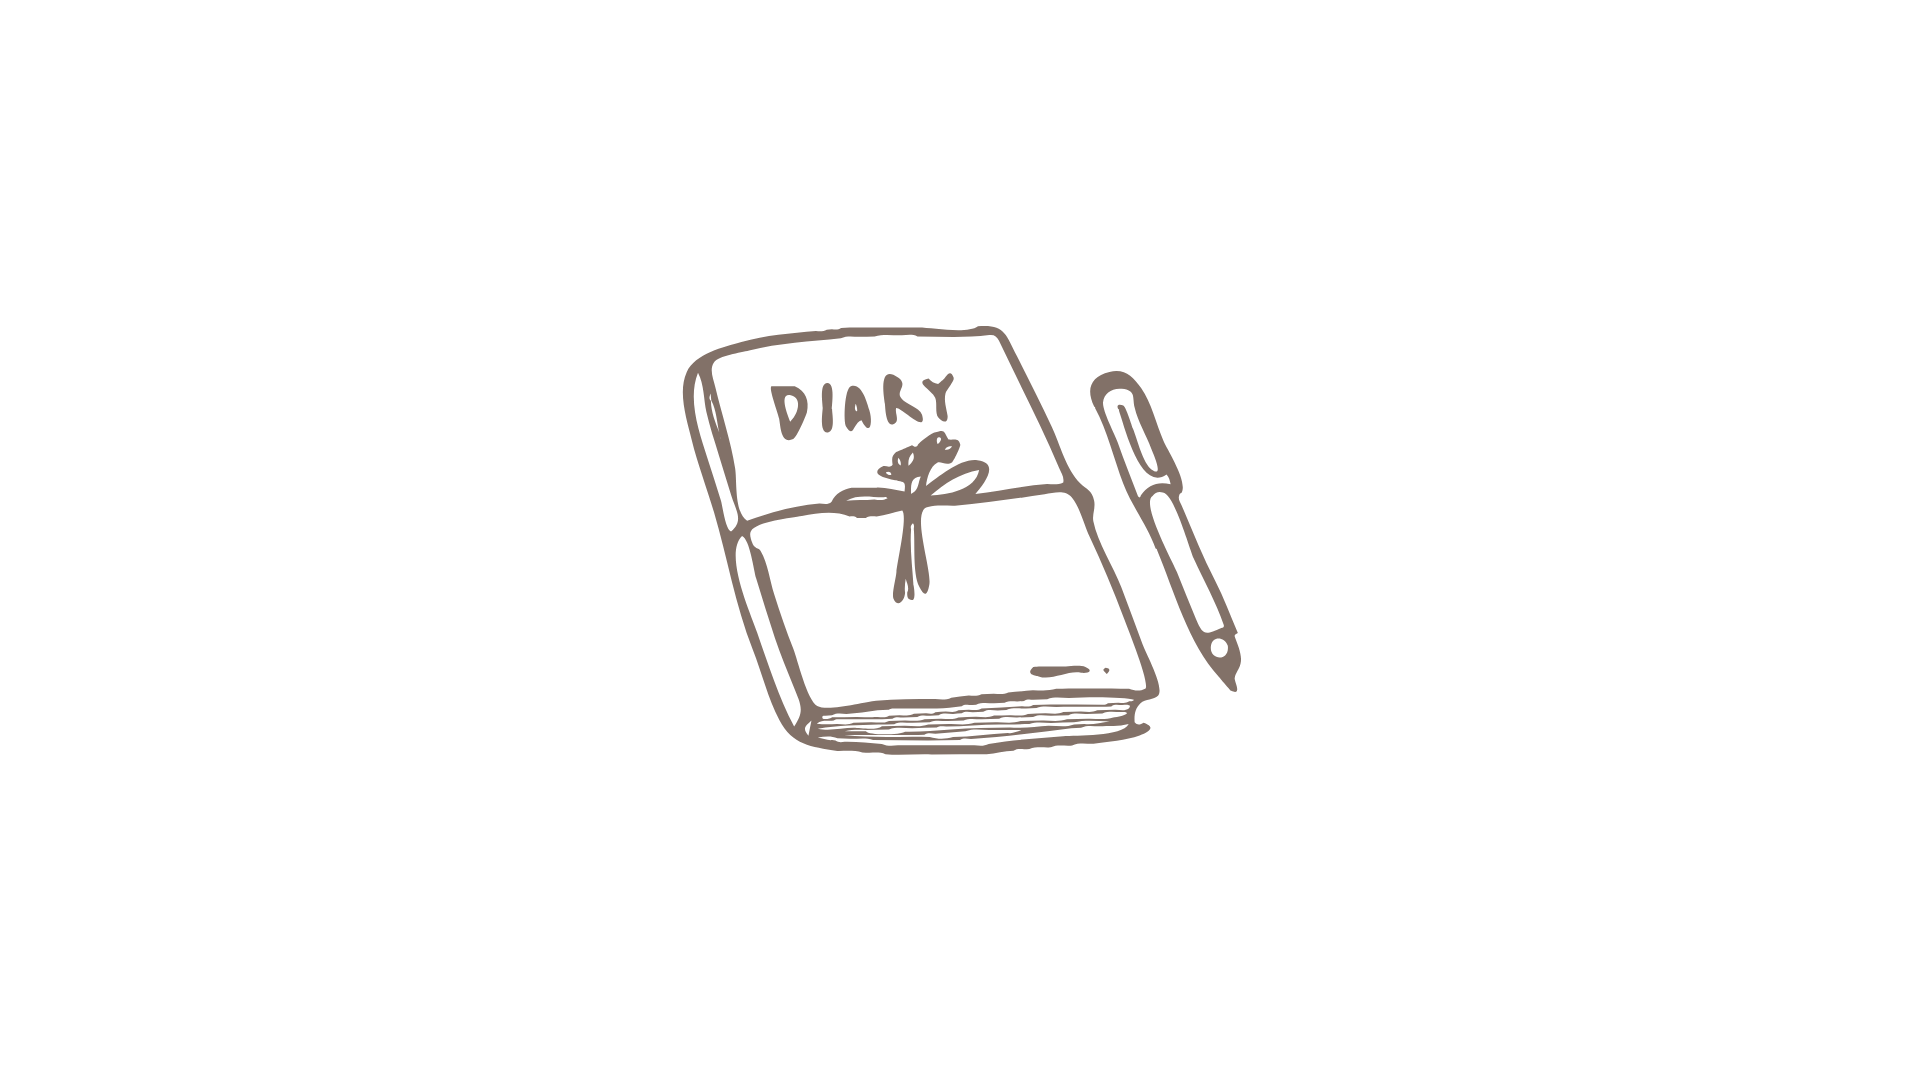
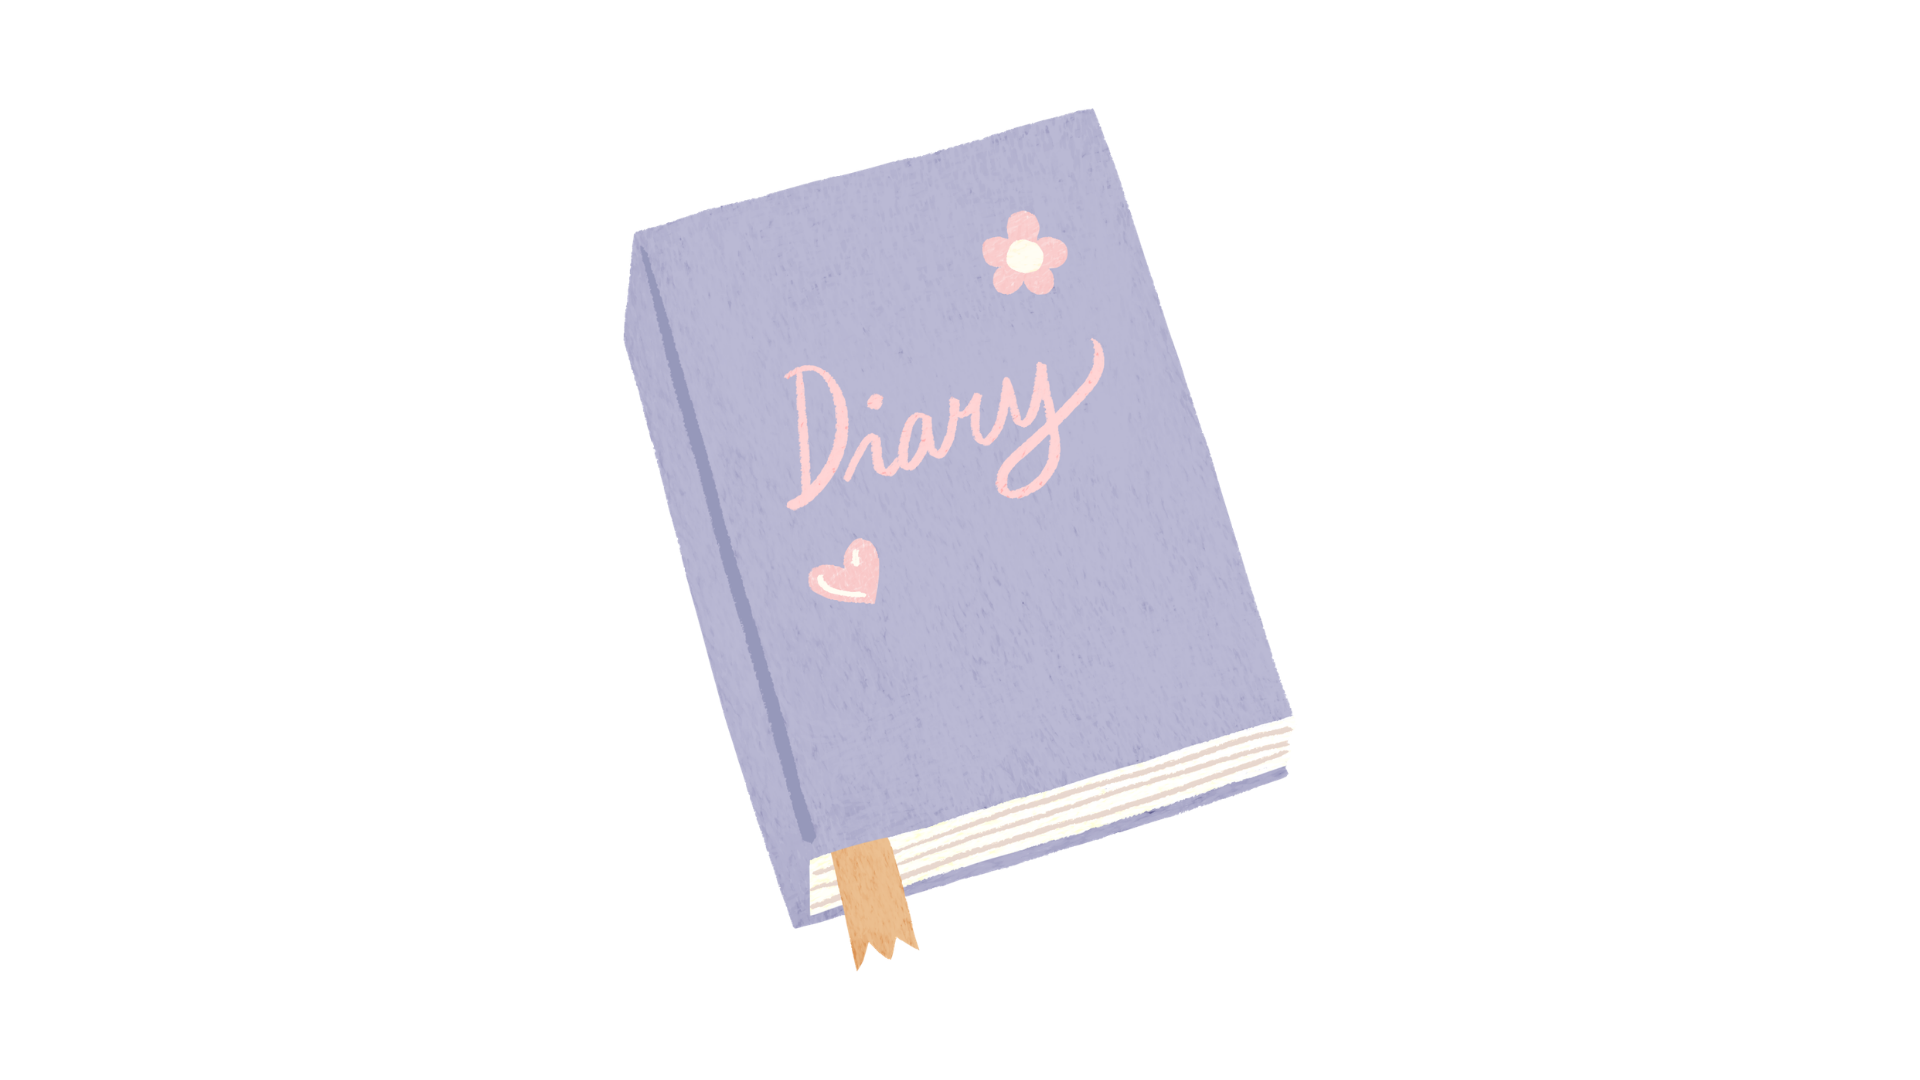
remove useeffect, check landscape & portrait modes todo

Changed region(s): [[0.3125, 0.0917, 0.6875, 0.8861]]

diff --git a/diary_app/app/_layout.tsx b/diary_app/app/_layout.tsx
@@ -9,19 +9,11 @@ import { PaperProvider, MD3LightTheme } from "react-native-paper";
 
 WebBrowser.maybeCompleteAuthSession();
 
-const RootLayoutNav = () => {
-  useEffect(() => {
-    ScreenOrientation.unlockAsync();
-  }, []);
-
-  return <Stack screenOptions={{ headerShown: false }} />;
-};
-
 const _ = () => {
   return (
     <AuthProvider>
       <PaperProvider theme={MD3LightTheme}>
-        <RootLayoutNav />
+        <Stack screenOptions={{ headerShown: false }} />
       </PaperProvider>
     </AuthProvider>
   );

diff --git a/diary_app/context/AuthContext.tsx b/diary_app/context/AuthContext.tsx
@@ -16,7 +16,7 @@ const AuthContext = createContext<AuthContextType>({
 
 export const AuthProvider = ({ children }: { children: React.ReactNode }) => {
   const [localLogin, setLocalLoginState] = useState<string | null>(null);
-  const [loading, setLoading] = useState(true); // ← nouveau
+  const [loading, setLoading] = useState(true);
 
   useEffect(() => {
     const auth = getAuth();